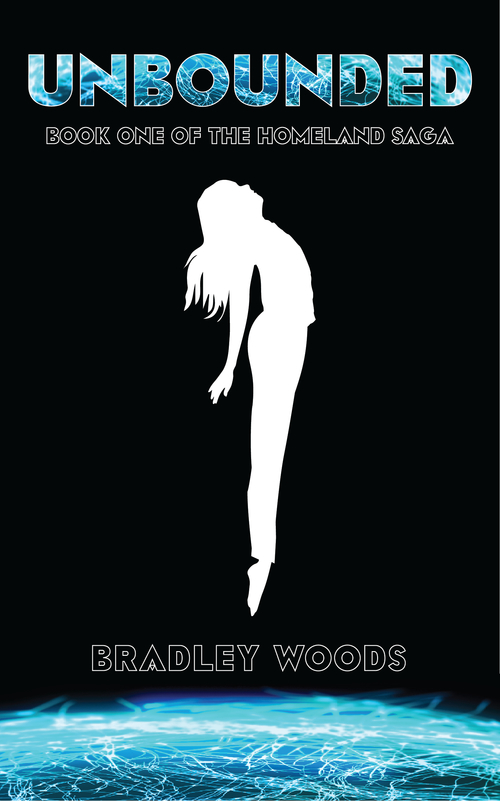
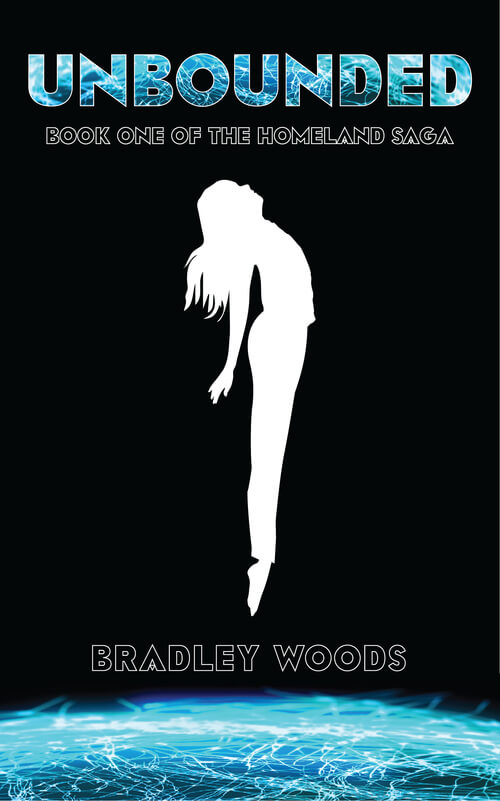
Compress image, add blurb

diff --git a/index.html b/index.html
@@ -33,6 +33,13 @@
 					<h2 class="top-banner__h2">Woods</h2>
 					<span class="brand-span"><h3>Author of <i>Unbounded</i></h3><h6>Book One of the Homeland Saga</h6></span>
 					<span class="brand-span-link"><a href="https://www.amazon.com/dp/B0873YKZ5J/ref=mp_s_a_1_1?dchild=1&keywords=unbounded+bradley+woods&qid=1586958895&sr=8-1" target="_blank" class="single-book__img"><h3>Out Now</i></h3></a></span>
+					<br>
+					<span class="brand-span">
+						<p>Everyone dreams of being able to fly. What if you could have that power, and fame and riches to go with it? Would you take it? Even if it came at a terrible cost?</p>
+						<p>With only a thousand born per generation, Fliers have been revered in human society for millennia. They are provided with every comfort and offered highly-paid positions of power. That power, though, has a catch. All Fliers die before they turn 40 years old.</p>
+						<p>In 2036, teenagers Lindsey Tescher and Derek Stalden have lived in luxury ever since they were revealed to be Fliers several years ago. But just before their high school graduation, they uncover a dark secret that challenges everything they thought they knew about the world’s Fliers. To survive the consequences of their discovery, they must journey far from home and endure harrowing hardship, unraveling painful secrets of the past. And in the process, their struggle to find the truth of who Fliers really are might just change the course of history.</p>
+						<br>
+					</span>
 				</div>
 				<div class="contact">
 					<h3>Get In Touch</h3>

diff --git a/css/style.css b/css/style.css
@@ -177,13 +177,6 @@
         width: 75%;
         margin-bottom: 20px;
         margin-left: 0; } }
-    .top-banner__inner .top-banner__text p {
-      margin-bottom: 42px;
-      color: #777; }
-      @media (max-width: 768px) {
-        .top-banner__inner .top-banner__text p {
-          margin-bottom: 25px;
-          font-size: 14px; } }
   .top-banner__inner .top-banner__h2 {
     font-size: 74px;
     letter-spacing: 3px;
@@ -227,6 +220,11 @@
 .brand-span {
   font-size: 24px;
   color: #c18f59; }
+
+  .brand-span p {
+    font-size: 16px;
+    margin-bottom: 10px;
+    color: #c18f59; }
 
 .brand-span h6 {
   font-size: 18px;
@@ -825,7 +823,7 @@ footer {
       t } }
 
 .contact {
-  margin-top: 20%;
+  margin-top: 10%;
   color: white;
   font-size: 20px;
 }
